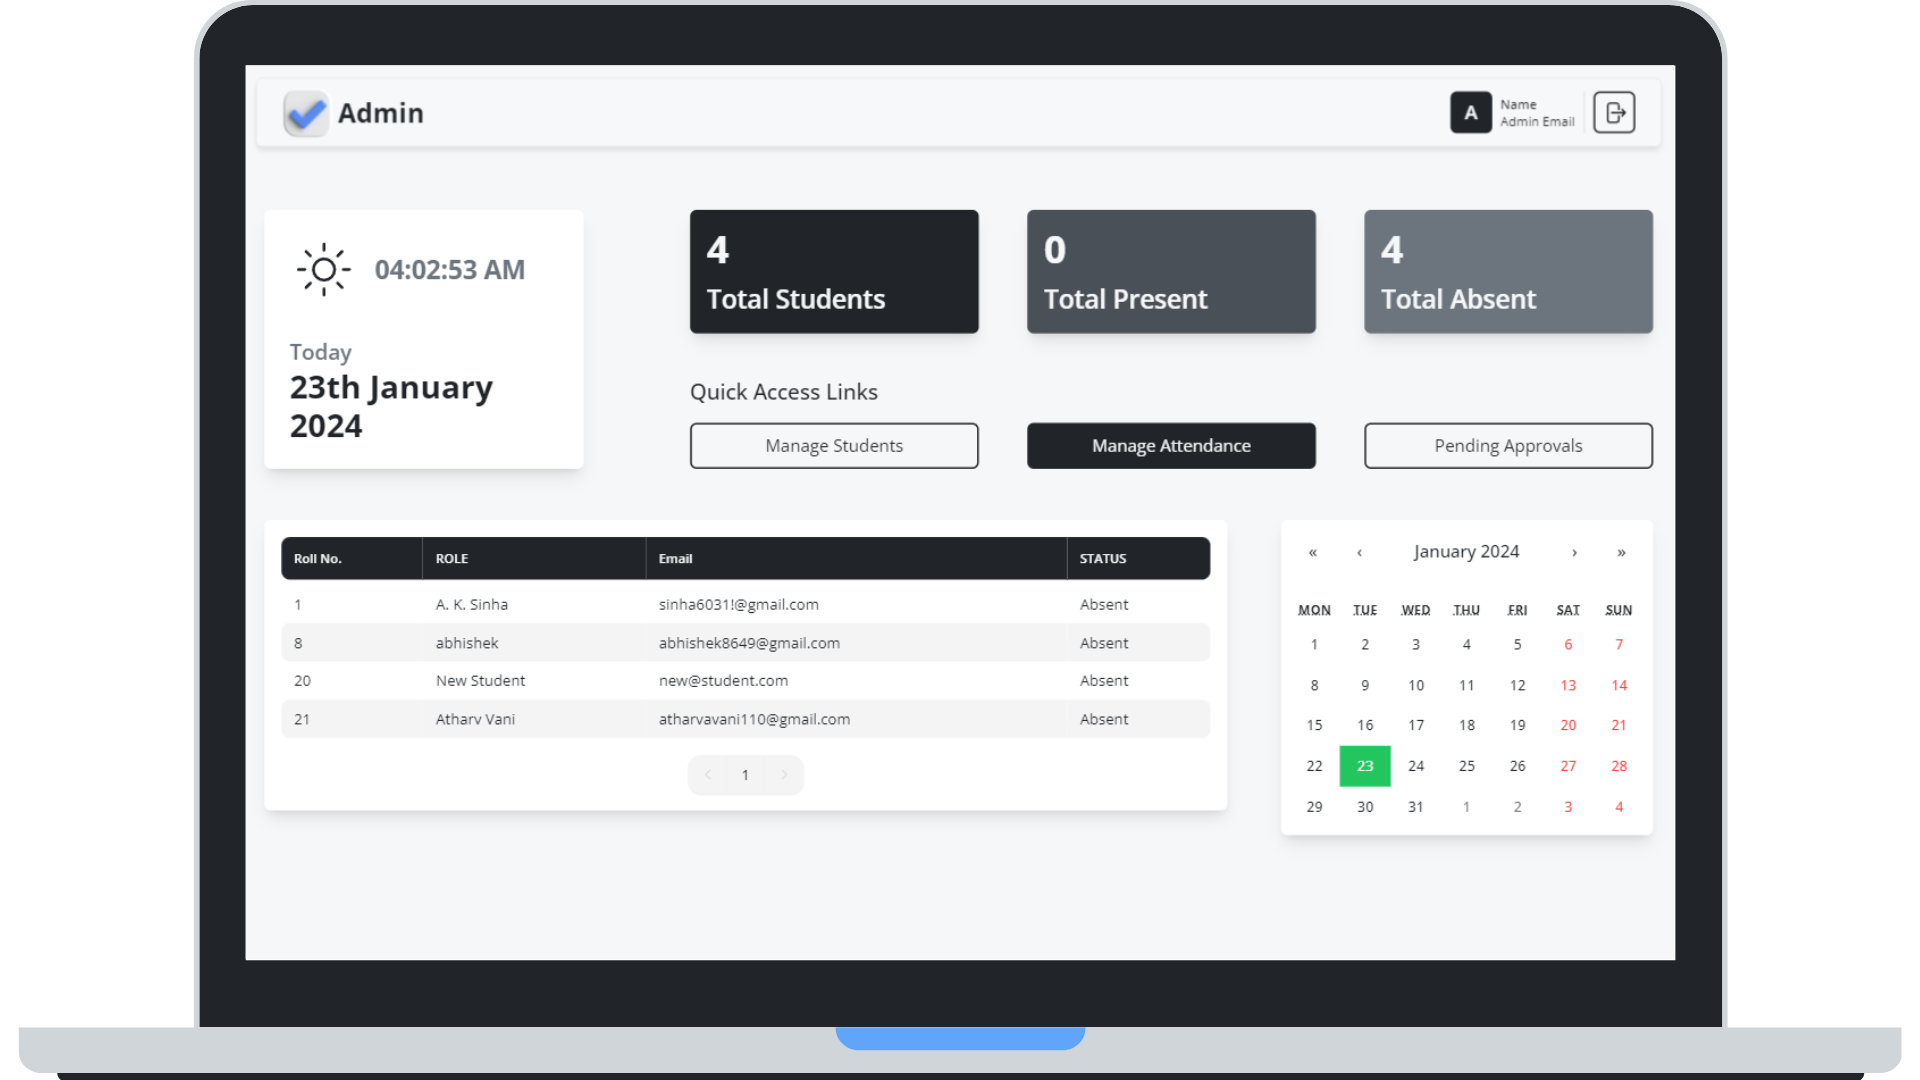
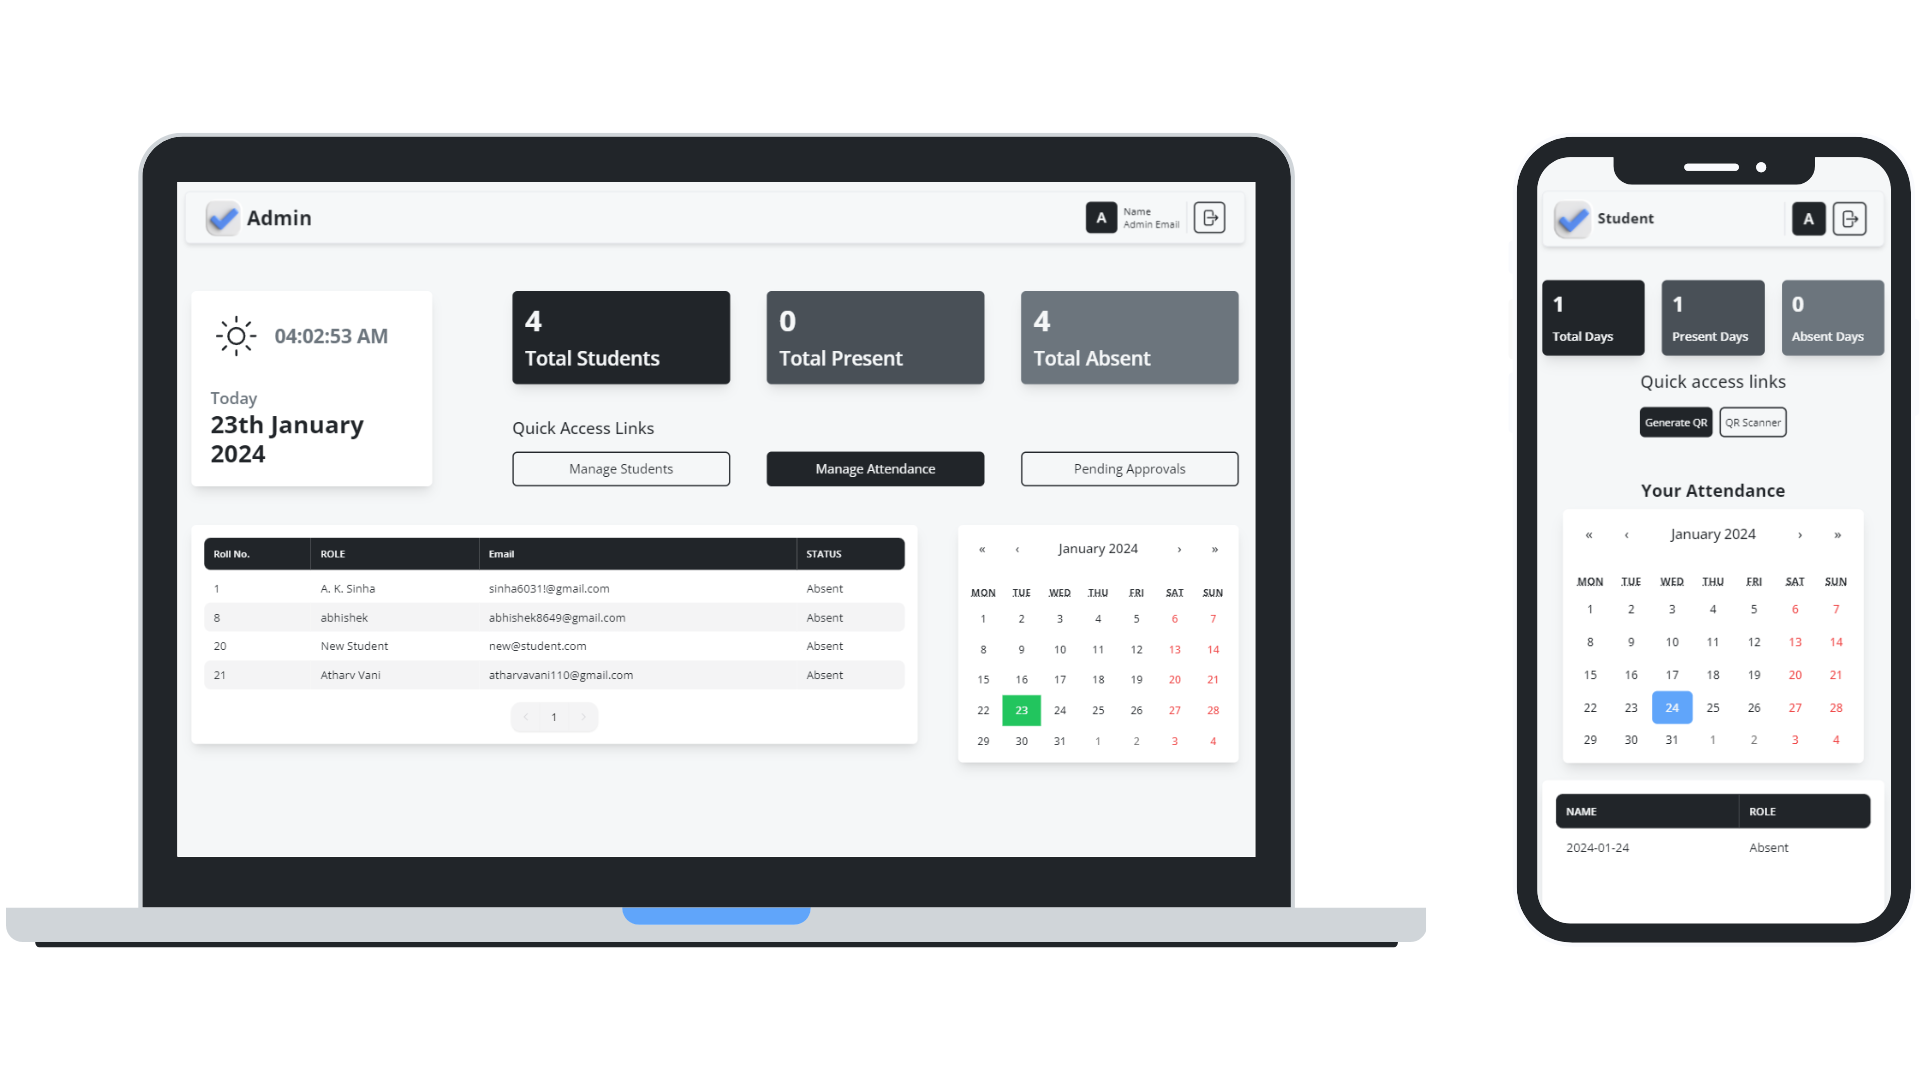
hero imag update

diff --git a/frontend/src/components/student/ScanQR.jsx b/frontend/src/components/student/ScanQR.jsx
@@ -3,7 +3,6 @@ import QrReader from "react-qr-scanner";
 import { setScanQRAPI } from "../../services/get-service";
 
 const ScanQRPage = ({ setScanQR }) => {
-  // const [data, setData] = useState(null);
   const [latitude, setLatitude] = useState("");
   const [longitude, setLongitude] = useState("");
 
@@ -26,14 +25,10 @@ const ScanQRPage = ({ setScanQR }) => {
 
   const handleMarkAttendance = async () => {
     const response = await setScanQRAPI(allData);
-    console.log(response);
+    if (response.msg === "Attendance marked successfully.") {
+      setScanQR(false);
+    }
   };
-  // console.log(data);
-  // console.log(typeof data);
-  // console.log(typeof String(longitude.longitude));
-  // console.log(typeof String(latitude.latitude));
-
-  // console.log(allData);
 
   useEffect(() => {
     if ("geolocation" in navigator) {
@@ -59,47 +54,43 @@ const ScanQRPage = ({ setScanQR }) => {
     <section className="w-full px-2">
       <button
         onClick={() => setScanQR(false)}
-        className="flex-center gap-1 capitalize font-medium underline leading-none transition-effect"
+        className="px-2 py-1 rounded-full border-2 text-gray-light border-gray-light hover:border-primary-black hover:text-primary-black transition-effect"
       >
-        <svg
-          xmlns="http://www.w3.org/2000/svg"
-          fill="none"
-          viewBox="0 0 24 24"
-          strokeWidth={1.5}
-          stroke="currentColor"
-          className="w-4 h-4"
-        >
-          <path
-            strokeLinecap="round"
-            strokeLinejoin="round"
-            d="M10.5 19.5 3 12m0 0 7.5-7.5M3 12h18"
-          />
-        </svg>
-        <h1>Go Back</h1>
+        <i className="fa-solid fa-arrow-left-long"></i>
       </button>
       <section className="flex-center mt-4">
-      <div className="pane_section w-fit flex flex-col items-center justify-center bg-white rounded-md shadow-lg p-5 gap-5 md:p-10">
-        <div className="w-full flex-center">
-          <QrReader
-            delay={100}
-            style={previewStyle}
-            onError={handleError}
-            onScan={handleScan}
-          />
+        <div className="pane_section w-fit flex flex-col items-center justify-center bg-white rounded-md shadow-lg p-5 gap-5 md:p-10">
+          <div className="w-full flex-center">
+            <QrReader
+              delay={100}
+              style={previewStyle}
+              onError={handleError}
+              onScan={handleScan}
+            />
+          </div>
+          <p
+            className={
+              allData.qr_code_data
+                ? "bg-blue-400 px-3 rounded-md text-primary-white"
+                : "bg-red-400 px-3 rounded-md text-primary-white"
+            }
+          >
+            {allData.qr_code_data
+              ? "QR Scanned Successfuly"
+              : "QR Not Detected!"}
+          </p>
+          <button
+            disabled={allData.qr_code_data ? false : true}
+            onClick={handleMarkAttendance}
+            className={
+              allData.qr_code_data
+                ? "btn"
+                : "btn opacity-10 hover:text-primary-white hover:bg-primary-black"
+            }
+          >
+            Mark Attendance
+          </button>
         </div>
-        <p className="text-lg">{allData.qr_code_data ? "Data Received!" : "Data not Received!"}</p>
-        <button
-          disabled={allData.qr_code_data ? false : true}
-          onClick={handleMarkAttendance}
-          className={
-            allData.qr_code_data
-              ? "btn"
-              : "btn opacity-10 hover:text-primary-white hover:bg-primary-black"
-          }
-        >
-          Mark Attendance
-        </button>
-      </div>
       </section>
     </section>
   );

diff --git a/frontend/src/components/admin/ApprovalManagement.jsx b/frontend/src/components/admin/ApprovalManagement.jsx
@@ -88,7 +88,7 @@ const ApprovalManagement = () => {
             base: "",
             wrapper: "min-h-[250px] bg-white shadow-lg rounded-md",
             th: "bg-primary-black text-primary-white rounded-none",
-            td: "data-[selected=true]:before:bg-gray-dark data-[selected=true]:text-white cursor-pointer ",
+            td: "data-[selected=true]:before:bg-blue-400 data-[selected=true]:text-primary-white cursor-pointer ",
           }}
         >
           <TableHeader>
@@ -111,13 +111,13 @@ const ApprovalManagement = () => {
         <h1 className="hidden md:block text-lg font-semibold">Action Centre</h1>
         <button
           onClick={approveRequest}
-          className="md:w-full bg-green-500 px-5 py-2 rounded-md text-white font-medium border-2 border-transparent hover:border-green-500 hover:bg-transparent hover:text-green-500"
+          className="md:w-full bg-green-400 px-5 py-2 rounded-md text-white font-medium border-2 border-transparent hover:border-green-400 hover:bg-transparent hover:text-green-400"
         >
           Approve Request
         </button>
         <button
           onClick={deleteRequest}
-          className="md:w-full bg-transparent text-red-500 border-2 border-red-500 px-5 py-2 rounded-md font-medium hover:bg-red-500 hover:text-white transition-effect"
+          className="md:w-full bg-transparent text-red-400 border-2 border-red-400 px-5 py-2 rounded-md font-medium hover:bg-red-400 hover:text-white transition-effect"
         >
           Delete Request
         </button>

diff --git a/frontend/src/components/student/GenerateQR.jsx b/frontend/src/components/student/GenerateQR.jsx
@@ -45,26 +45,12 @@ const GenerateQRPage = ({ setGenerateQR }) => {
     <section className="w-full px-2 mt-24 md:mt-32">
       <button
         onClick={() => setGenerateQR(false)}
-        className="flex-center gap-1 capitalize font-medium underline leading-none transition-effect"
+        className="px-2 py-1 rounded-full border-2 text-gray-light border-gray-light hover:border-primary-black hover:text-primary-black transition-effect"
       >
-        <svg
-          xmlns="http://www.w3.org/2000/svg"
-          fill="none"
-          viewBox="0 0 24 24"
-          strokeWidth={1.5}
-          stroke="currentColor"
-          className="w-4 h-4"
-        >
-          <path
-            strokeLinecap="round"
-            strokeLinejoin="round"
-            d="M10.5 19.5 3 12m0 0 7.5-7.5M3 12h18"
-          />
-        </svg>
-        <h1>Go Back</h1>
+        <i className="fa-solid fa-arrow-left-long"></i>
       </button>
       <section className="panel_section w-fit mx-auto flex items-center justify-center">
-        <div className="w-full bg-white shadow-lg p-8 rounded-md">
+        <div className="w-full border-2 border-transparent hover:border-blue-400 transition-effect bg-white shadow-lg p-8 rounded-md">
           {count == 0 ? (
             <div className="flex flex-col items-center gap-10">
               <QRCode value={value + ""} />

diff --git a/frontend/src/App.css b/frontend/src/App.css
@@ -1,13 +1,13 @@
 .App {
-  @apply absolute w-full min-h-screen md:px-[2%] lg:px-[3%] bg-primary-white text-primary-black;
+  @apply absolute w-full min-h-screen md:px-[2%] lg:px-[3%] bg-primary-white  text-primary-black;
 }
 
 .navbar_glass {
-  @apply bg-white border shadow-sm bg-opacity-15 bg-clip-padding backdrop-filter backdrop-blur-[5px];
+  @apply bg-white border bg-opacity-15 bg-clip-padding backdrop-filter backdrop-blur-[5px];
 }
 
 .bg_img {
-  background-image: url("/images/background.png");
+  background-image: url("/images/background.svg");
 }
 
 /* common css */
@@ -88,15 +88,15 @@
 }
 
 #calendar .react-calendar__tile--now {
-  @apply text-primary-white bg-primary-black;
+  @apply text-primary-white bg-primary-black rounded-md;
 }
 
 #calendar button {
-  @apply hover:bg-gray-dark hover:text-primary-white active:bg-primary-white active:text-primary-black;
+  @apply rounded-md hover:bg-gray-dark hover:text-primary-white active:bg-primary-white active:text-primary-black;
 }
 
 #calendar .react-calendar__tile--active {
-  @apply bg-green-500;
+  @apply  rounded-md bg-blue-400;
 }
 
 #calendar .react-calendar__month-view__days__day--weekend {

diff --git a/frontend/src/components/student/StudentDashboard.jsx b/frontend/src/components/student/StudentDashboard.jsx
@@ -42,7 +42,7 @@ const StudentDashboard = () => {
   };
 
   return (
-    <section className="w-full px-2 mt-24 md:mt-32">
+    <section className="w-full px-2 mt-24 md:mt-28">
       <Navbar
         role="student"
         name={dashboardMetrics.student}
@@ -72,7 +72,7 @@ const StudentDashboard = () => {
                 />
               </div>
               <div>
-                <h1 className="mb-4 text-xl font-medium">Quick access links</h1>
+                <h1 className="mb-4 text-xl max-sm:text-center font-medium">Quick access links</h1>
                 <div className="flex max-sm:flex-wrap max-sm:justify-center gap-2 md:gap-8 items-center">
                   <button
                     onClick={() => setGenerateQR(true)}

diff --git a/frontend/src/components/core/HeroHeader.jsx b/frontend/src/components/core/HeroHeader.jsx
@@ -4,7 +4,7 @@ const HeroHeader = () => {
   return (
     <header className="absolute z-10 w-full lg:w-[92%] mx-auto top-0 left-0 right-0 flex-between py-2 px-3 ">
       <div className="flex-center gap-1">
-        <img src="/images/logo.png" alt="icon" className="w-12 md:w-14" />
+        <img src="/images/logo.png" alt="icon" className="w-12 md:w-12" />
         <h1 className="font-bold tracking-wide text-2xl">ezMark</h1>
       </div>
       <Link to="https://github.com/Atharv-110/ezmark" target="_blank" className="btn_bordered">

diff --git a/frontend/src/components/admin/AdminDashboard.jsx b/frontend/src/components/admin/AdminDashboard.jsx
@@ -59,7 +59,7 @@ const AdminDashboard = () => {
   };
 
   return (
-    <section className="w-full px-2 mt-24 md:mt-32">
+    <section className="w-full px-2 mt-24 md:mt-28">
       <Navbar role="admin" name={dashboardMetrics.admin} email={dashboardMetrics.email} />
       <section className="panel_section flex flex-col items-center md:items-stretch md:flex-row gap-8 md:gap-4 md:justify-between flex-wrap">
         <div className="hidden md:block w-full md:w-[200px] lg:w-[300px]">

diff --git a/frontend/src/components/core/CurrentDateTimeCard.jsx b/frontend/src/components/core/CurrentDateTimeCard.jsx
@@ -33,7 +33,7 @@ const CurrentDateTimeCard = () => {
   };
 
   return (
-    <div className="h-full flex flex-col justify-between p-6 gap-2 bg-white rounded-md shadow-lg">
+    <div className="h-full flex flex-col justify-between p-6 gap-2 bg-white border-2 border-transparent hover:border-blue-400 transition-effect rounded-md shadow-lg">
       <div className="w-full flex items-center gap-4">
         {time.hours >= 18 ? (
           <svg

diff --git a/frontend/src/components/student/AttendanceRecord.jsx b/frontend/src/components/student/AttendanceRecord.jsx
@@ -87,7 +87,7 @@ const AttendanceRecord = () => {
       </div>
       <div
         id="calendar"
-        className="w-full flex-center md:w-[300px] lg:w-[300px]"
+        className="w-full flex-center md:justify-end md:w-[300px] lg:w-[350px]"
       >
         <Calendar onChange={setCalDate} value={calDate} />
       </div>

diff --git a/frontend/src/components/core/RolePage.jsx b/frontend/src/components/core/RolePage.jsx
@@ -36,7 +36,7 @@ const RolePage = () => {
           </p>
         </div>
 
-        <div className="flex flex-col gap-y-2">
+        <div className="flex flex-col gap-y-4">
           <h3 className="text-center text-lg font-semibold">
             Login or Register as
           </h3>

diff --git a/frontend/src/components/student/StudentLogin.jsx b/frontend/src/components/student/StudentLogin.jsx
@@ -106,7 +106,7 @@ const StudentLogin = () => {
   //   }
   // };
   return (
-    <section className="h-screen flex-center">
+    <section className="flex-center py-20">
       <LoginForm
         type={type}
         setType={setType}

diff --git a/frontend/src/components/core/Glimpse.jsx b/frontend/src/components/core/Glimpse.jsx
@@ -9,7 +9,7 @@ const Glimpse = () => {
       <img
         src="/images/hero_image.png"
         alt=""
-        className="mt-10 w-full md:w-[750px]"
+        className="mt-10 w-full md:w-[800px]"
       />
     </section>
   );
